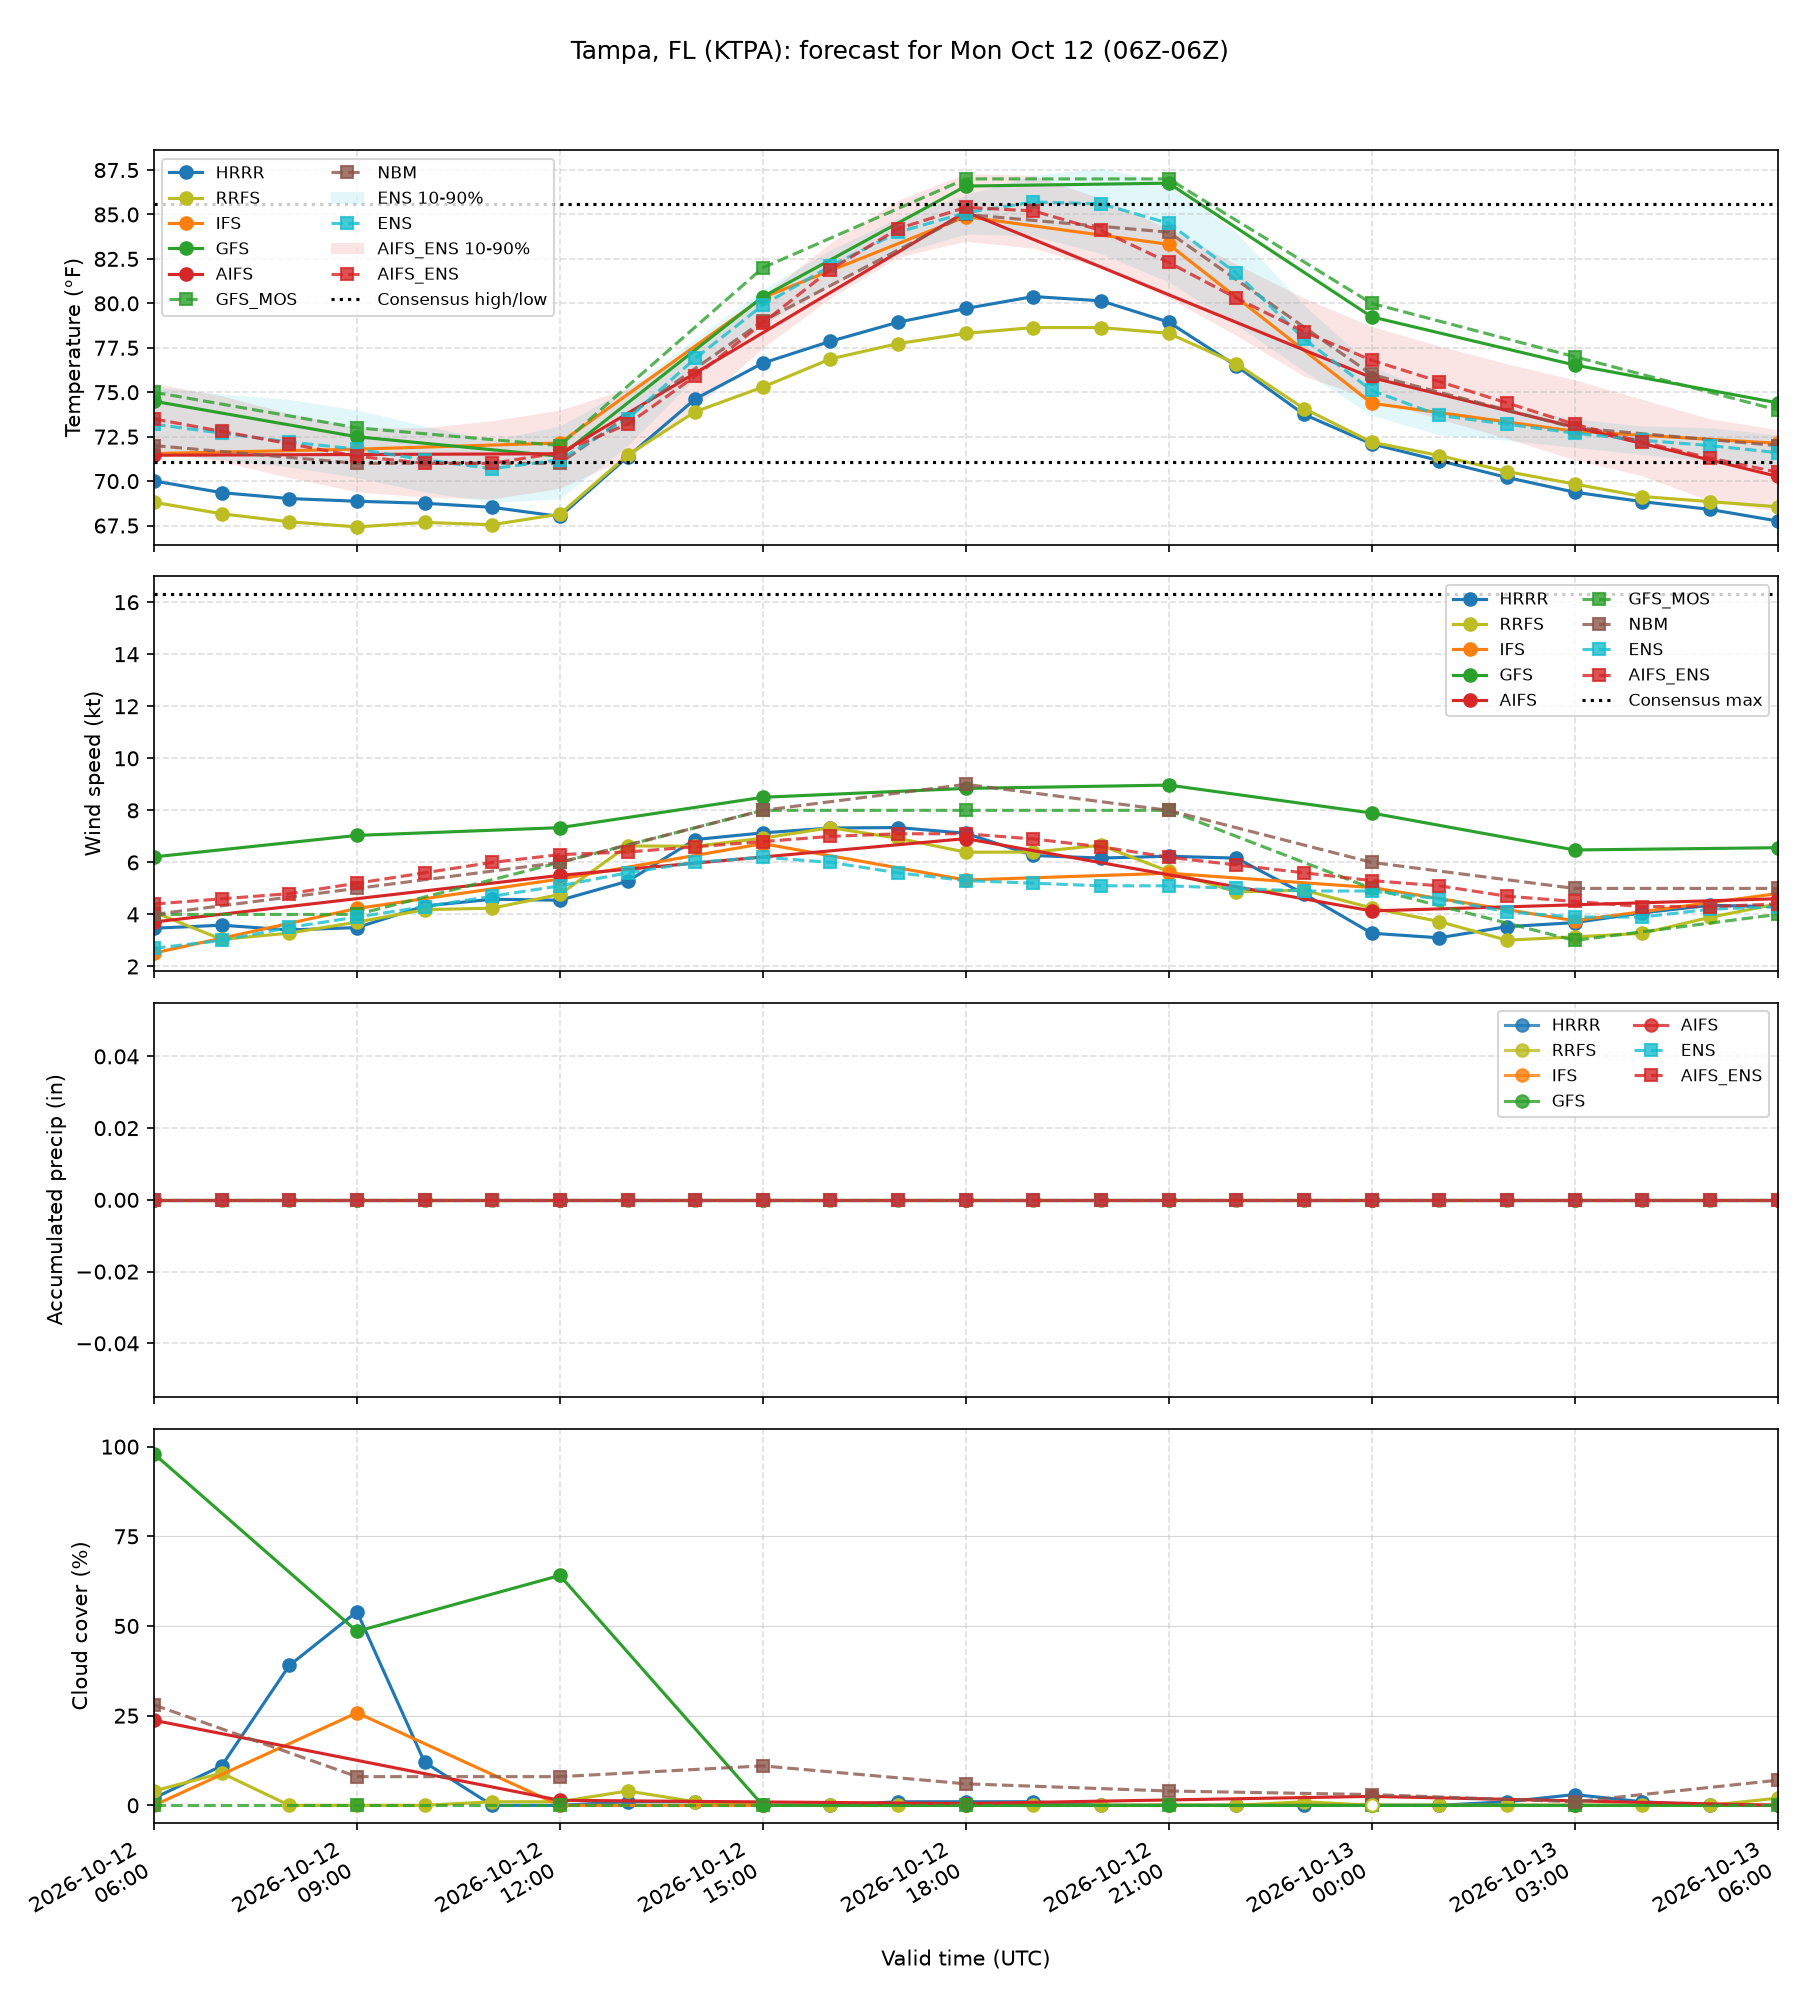
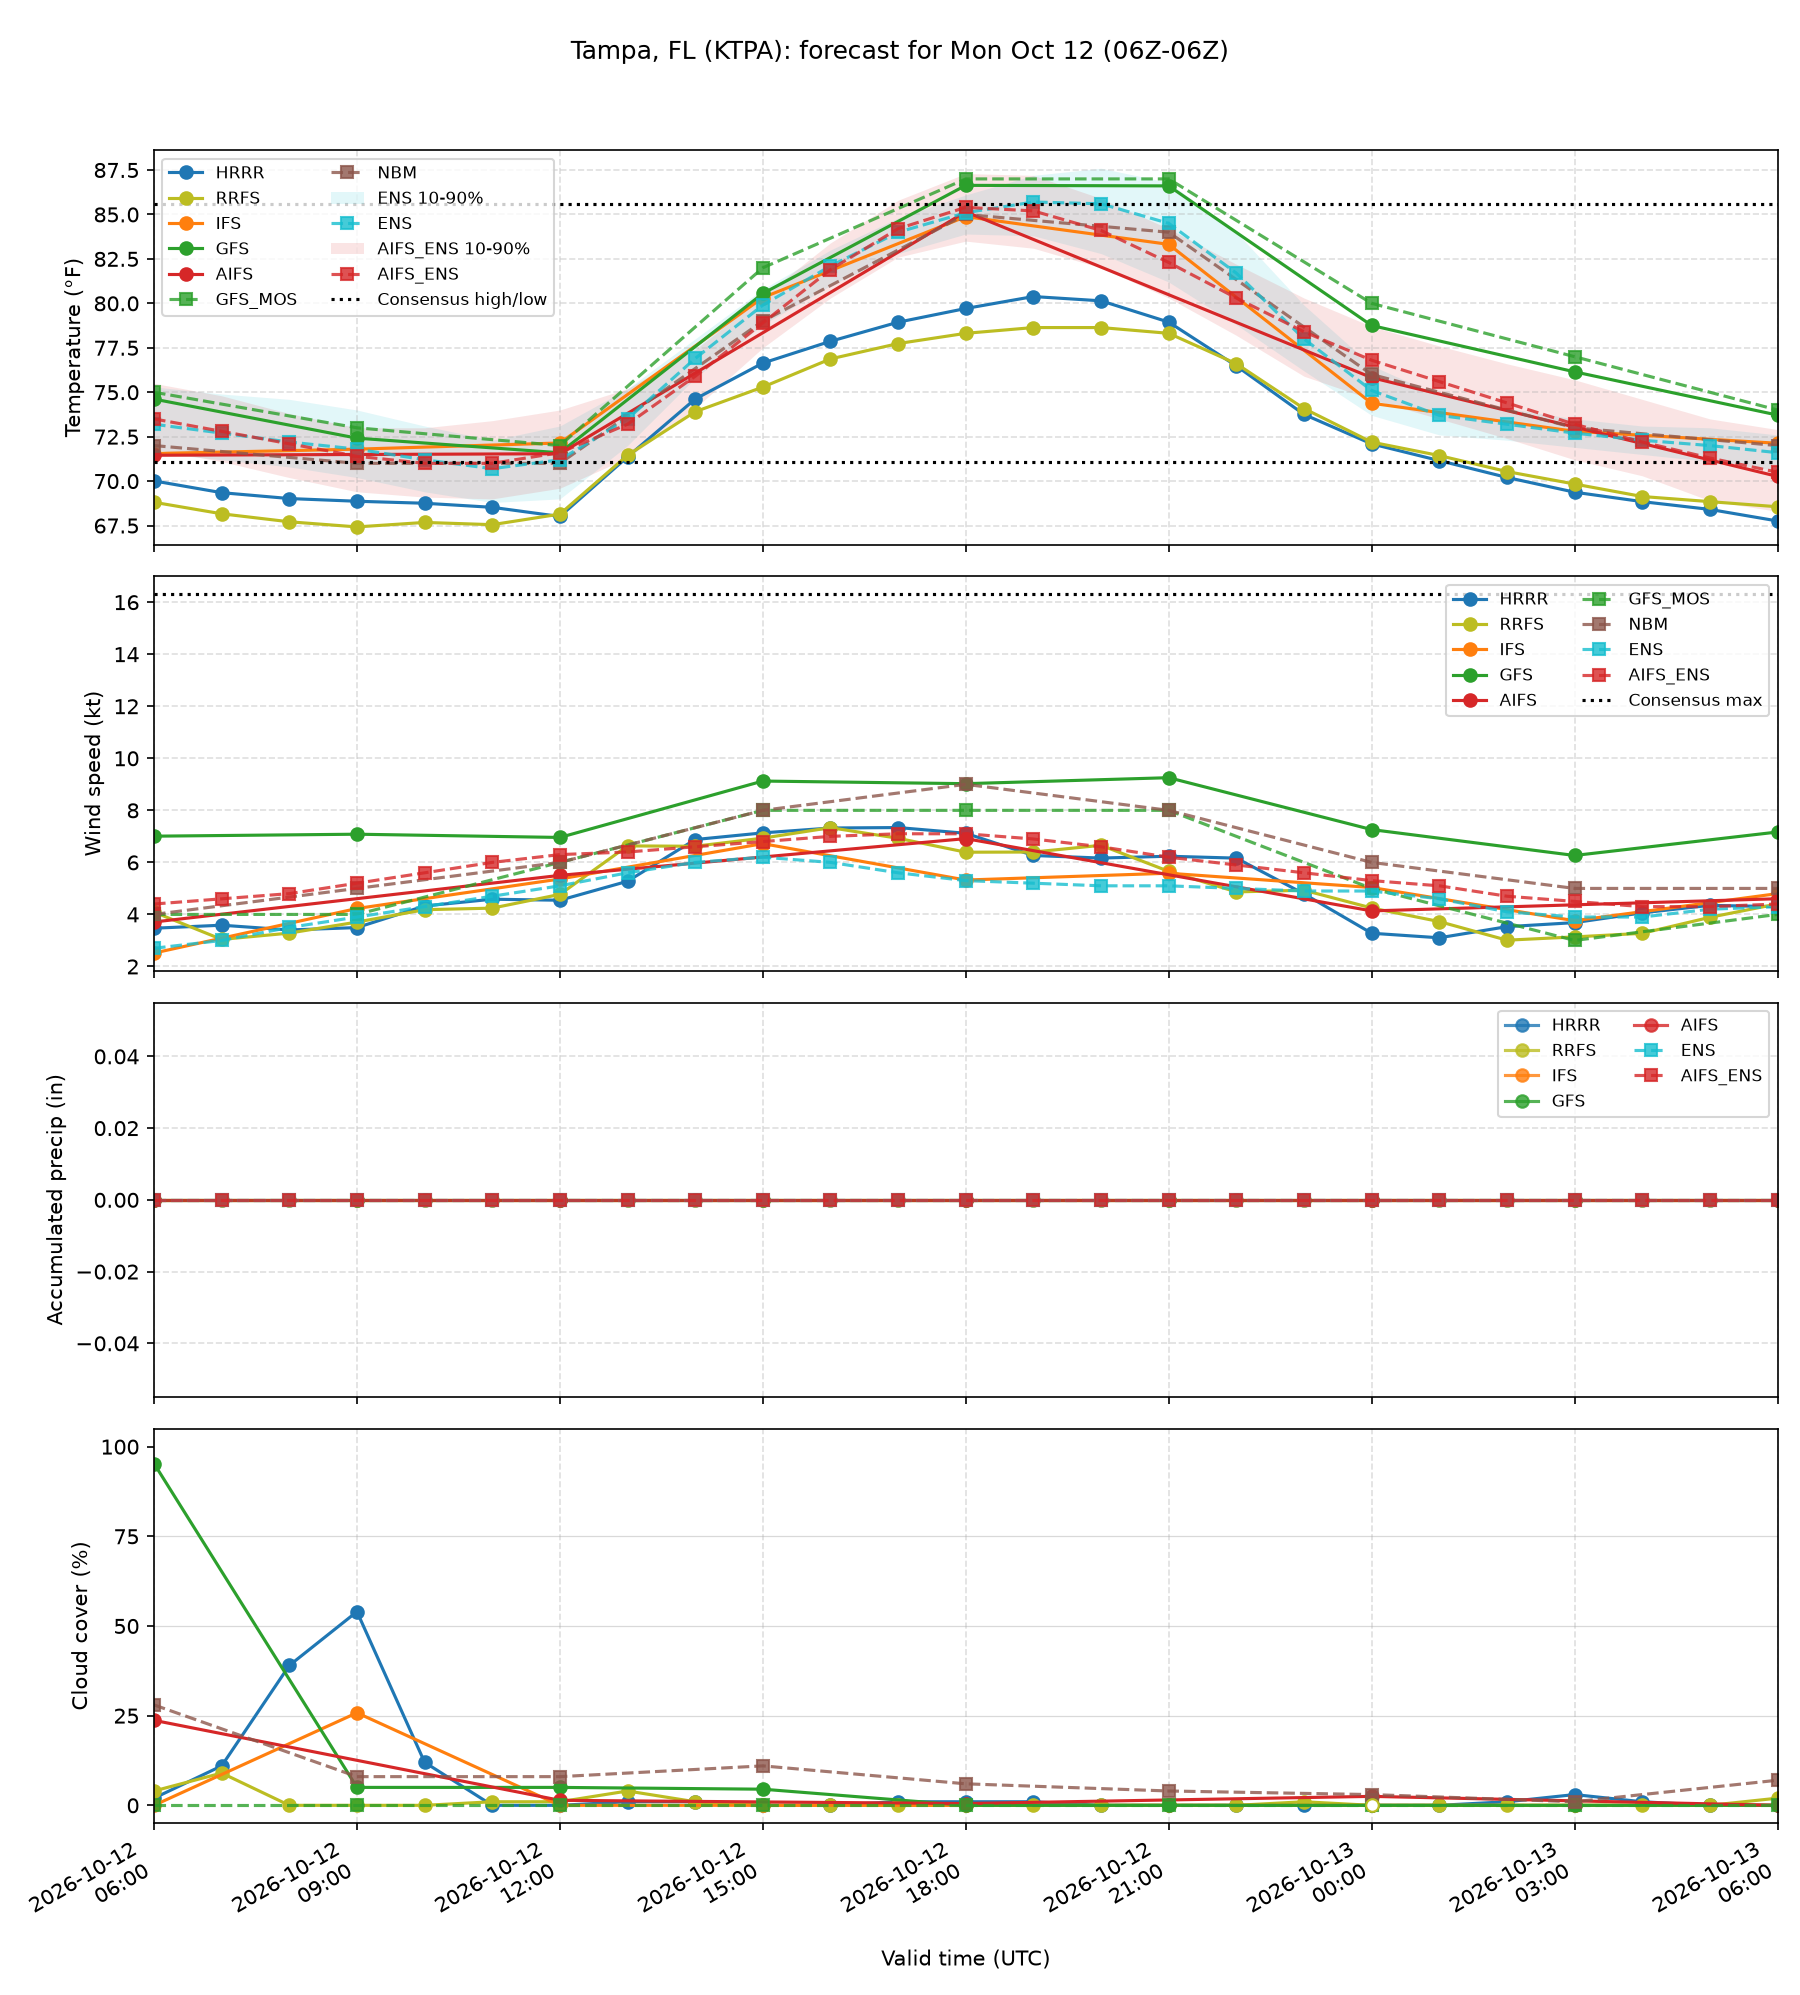
update wxchallenge: 2026-10-11T23:00:05+00:00

diff --git a/weather-forecasts/data/wxchallenge/brief.md b/weather-forecasts/data/wxchallenge/brief.md
@@ -3,7 +3,7 @@
 - Station: **KTPA**
 - Target day: **2026-10-12**, scored over 2026-10-12T06Z to 2026-10-13T06Z (UTC, 06Z to 06Z)
 - Submission deadline: 2026-10-12T00Z (forecasts for a day are due at 00Z that day)
-- Generated: 2026-10-11T22:39:46+00:00 (refreshed several times an hour while the forecast job runs)
+- Generated: 2026-10-11T23:00:05+00:00 (refreshed several times an hour while the forecast job runs)
 - Units: temperature °F, wind kt (max sustained), precipitation inches (liquid)
 
 ## How to use this brief (for AI assistants)
@@ -31,7 +31,7 @@ Run = day/hour (UTC) of the model initialization.
 | HRRR | 11/18Z | 80.4 | 67.8 | 7.3 | 0.00 |
 | RRFS | 11/18Z | 78.7 | 67.4 | 7.3 | 0.00 |
 | IFS | 11/12Z | 85.5 | 71.2 | 6.7 | 0.00 |
-| GFS | 11/12Z | 87.7 | 71.2 | 9.0 | 0.00 |
+| GFS | 11/18Z | 87.6 | 71.3 | 9.3 | 0.00 |
 | AIFS | 11/12Z | 85.1 | 70.3 | 6.9 | 0.00 |
 | GFS_MOS | 11/18Z | 89.0 | 71.0 | 8.0 | 0.00 |
 | NBM | 11/18Z | 85.0 | 70.0 | 9.0 | 0.00 |
@@ -48,7 +48,7 @@ Notes:
 - AIFS: 6-hourly output: high/low likely underdone
 - GFS_MOS: MOS Q06 categories [0, 0, 0, 0] -> midpoints
 - NBM: NBS Q06 amounts
-- USL: failed this run (no USL run for 2026-10-12 available at 2026-10-11 22Z)
+- USL: failed this run (no USL run for 2026-10-12 available at 2026-10-11 23Z)
 - ENS: ensemble mean of 51 members (Open-Meteo)
 - AIFS_ENS: ensemble mean of 51 members (Open-Meteo)
 - GEFS: ensemble mean of 31 members (Open-Meteo); not in the consensus
@@ -303,24 +303,24 @@ Chance (%) of ≥0.01" in each 6-hour block, 06-12/12-18/18-00/00-06 UTC, agains
 | 10-09 | 0.00" (dry) | 34/48/45/41 | 8/17/63/14 | 20/92/96/18 | 28/45/61/41 | 68/74/84/13 | 24h 72% | 24h 100% | 5/14/66/6 |
 | 10-10 | 0.00" (dry) | 53/39/43/57 | 26/37/56/40 | 61/100/100/71 | 57/84/78/59 | 71/36/36/77 | 24h 61% | 24h 100% | 30/50/62/34 |
 
-## Today so far (2026-10-11, through 2026-10-11T21:53Z)
+## Today so far (2026-10-11, through 2026-10-11T22:53Z)
 
-This is the day in progress (not the target day), scored against the runs submitted before its deadline. Observed so far: high 84.0 °F, low 77.0 °F, max wind 15 kt, precip 0.34" (16 hourly obs).
+This is the day in progress (not the target day), scored against the runs submitted before its deadline. Observed so far: high 84.0 °F, low 77.0 °F, max wind 15 kt, precip 0.34" (17 hourly obs).
 
 Temp bias/MAE are over the hourly obs so far. High/low columns show the model's daily value and (in brackets) its difference from the observed extreme so far; "pending" means the model's expected time of that extreme hasn't passed, so the observed value can still change.
 
 | Model | Run | Temp bias | Temp MAE | High (err) | Low (err) | Wind bias | Precip so far | Precip err |
 | --- | --- | --: | --: | --: | --: | --: | --: | --: |
-| HRRR | 10/18Z | -1.4 | 1.8 | 81 (-3) | 70 (-7) pending | +1.4 | 0.91 | +0.57 |
-| RRFS | 10/18Z | -0.2 | 2.5 | 84 (+0) | 69 (-8) pending | +1.1 | 0.03 | -0.31 |
-| IFS | 10/12Z | -0.5 | 2.1 | 84 (+0) | 73 (-4) pending | +0.1 | 0.45 | +0.11 |
-| GFS | 10/18Z | +1.6 | 1.9 | 84 (+0) pending | 75 (-2) pending | +0.9 | 0.32 | -0.02 |
-| AIFS | 10/12Z | +0.2 | 1.8 | 83 (-1) | 71 (-6) pending | -0.4 | 0.37 | +0.03 |
-| GFS_MOS | 10/18Z | +2.8 | 2.8 | 88 (+4) | 75 (-2) pending | +0.8 | — | — |
-| NBM | 10/18Z | +0.6 | 1.7 | 85 (+1) | 74 (-3) pending | +1.1 | — | — |
-| ENS | 10/06Z | -0.2 | 1.9 | 83 (-1) | 74 (-3) pending | -0.4 | 0.37 | +0.03 |
-| AIFS_ENS | 10/12Z | +0.3 | 1.8 | 83 (-1) | 73 (-4) pending | +0.1 | 0.26 | -0.08 |
-| GEFS | 10/18Z | +3.4 | 3.4 | 86 (+2) | 78 (+1) | +1.2 | 0.19 | -0.15 |
+| HRRR | 10/18Z | -1.5 | 1.9 | 81 (-3) | 70 (-7) pending | +1.3 | 0.91 | +0.57 |
+| RRFS | 10/18Z | -0.4 | 2.6 | 84 (+0) | 69 (-8) pending | +1.0 | 0.03 | -0.31 |
+| IFS | 10/12Z | -0.5 | 2.0 | 84 (+0) | 73 (-4) pending | +0.0 | 0.45 | +0.11 |
+| GFS | 10/18Z | +1.7 | 1.9 | 84 (+0) | 75 (-2) pending | +1.0 | 0.32 | -0.02 |
+| AIFS | 10/12Z | +0.1 | 1.7 | 83 (-1) | 71 (-6) pending | -0.4 | 0.38 | +0.04 |
+| GFS_MOS | 10/18Z | +2.7 | 2.7 | 88 (+4) | 75 (-2) pending | +0.9 | — | — |
+| NBM | 10/18Z | +0.6 | 1.7 | 85 (+1) | 74 (-3) pending | +1.0 | — | — |
+| ENS | 10/06Z | -0.2 | 1.8 | 83 (-1) | 74 (-3) pending | -0.5 | 0.37 | +0.03 |
+| AIFS_ENS | 10/12Z | +0.3 | 1.7 | 83 (-1) | 73 (-4) pending | +0.0 | 0.27 | -0.07 |
+| GEFS | 10/18Z | +3.5 | 3.5 | 86 (+2) | 78 (+1) | +1.3 | 0.19 | -0.15 |
 
 ## Raw data
 
